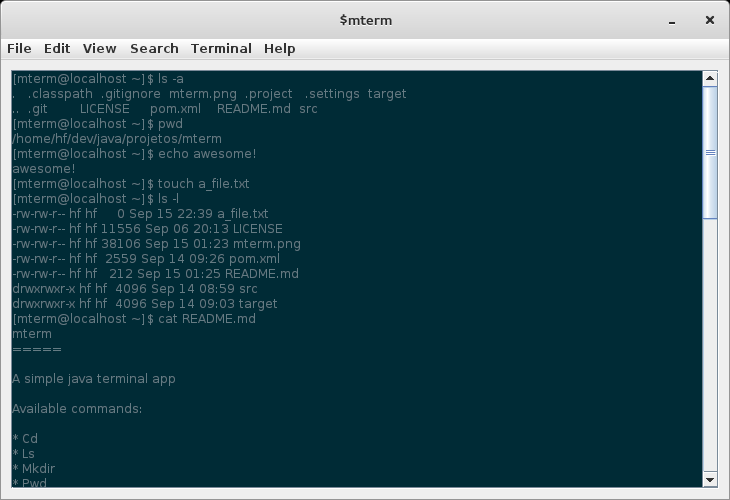
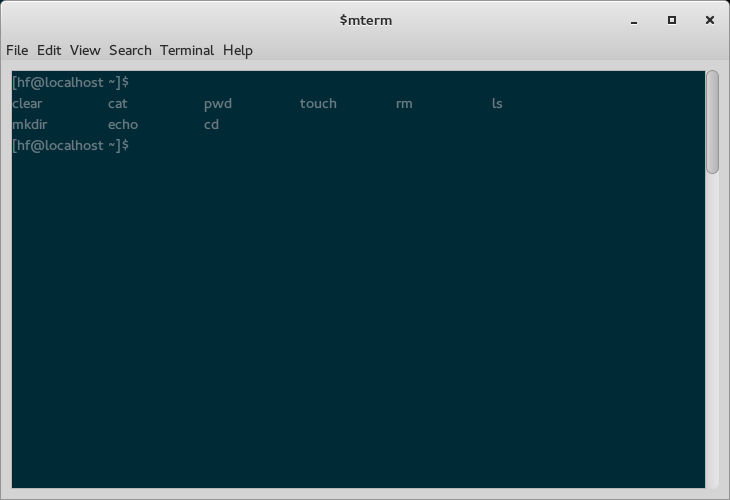
new screenshot and better ps1

Changed region(s): [[0.0, 0.03, 1.0, 1.0], [0.663, 0.18, 0.6932, 0.21]]

diff --git a/src/main/java/org/esmerilprogramming/mterm/Mterm.java b/src/main/java/org/esmerilprogramming/mterm/Mterm.java
@@ -32,7 +32,7 @@ public class Mterm {
   public static String buildPS1() {
     String ps1 = "[" + System.getProperty("user.name") + "@";
     try {
-      ps1 += InetAddress.getLocalHost().getHostName() + " ~]$ ";
+      ps1 += InetAddress.getLocalHost().getHostName().split("\\.")[0] + " ~]$ ";
     } catch (UnknownHostException e) {
       new MessageDialog().error(e.getMessage());
     }
